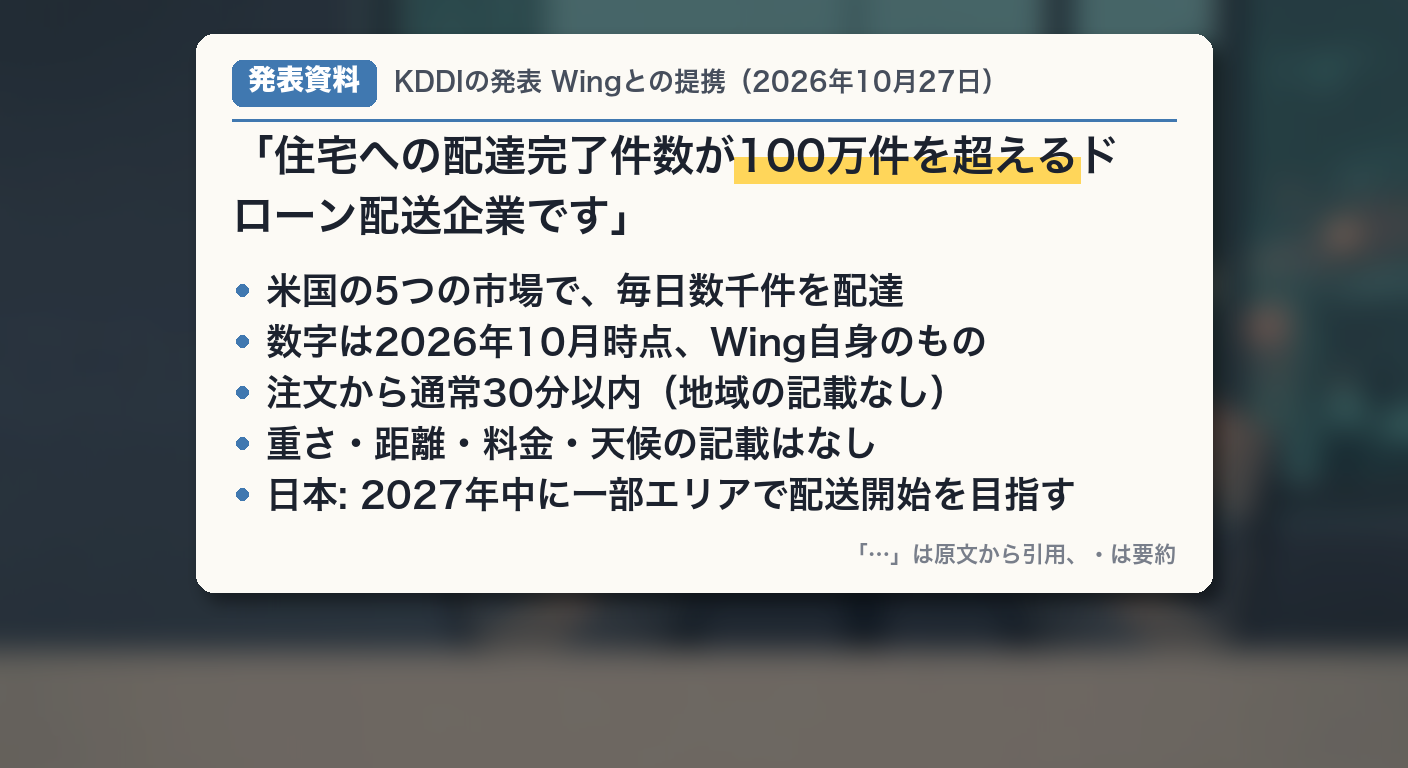
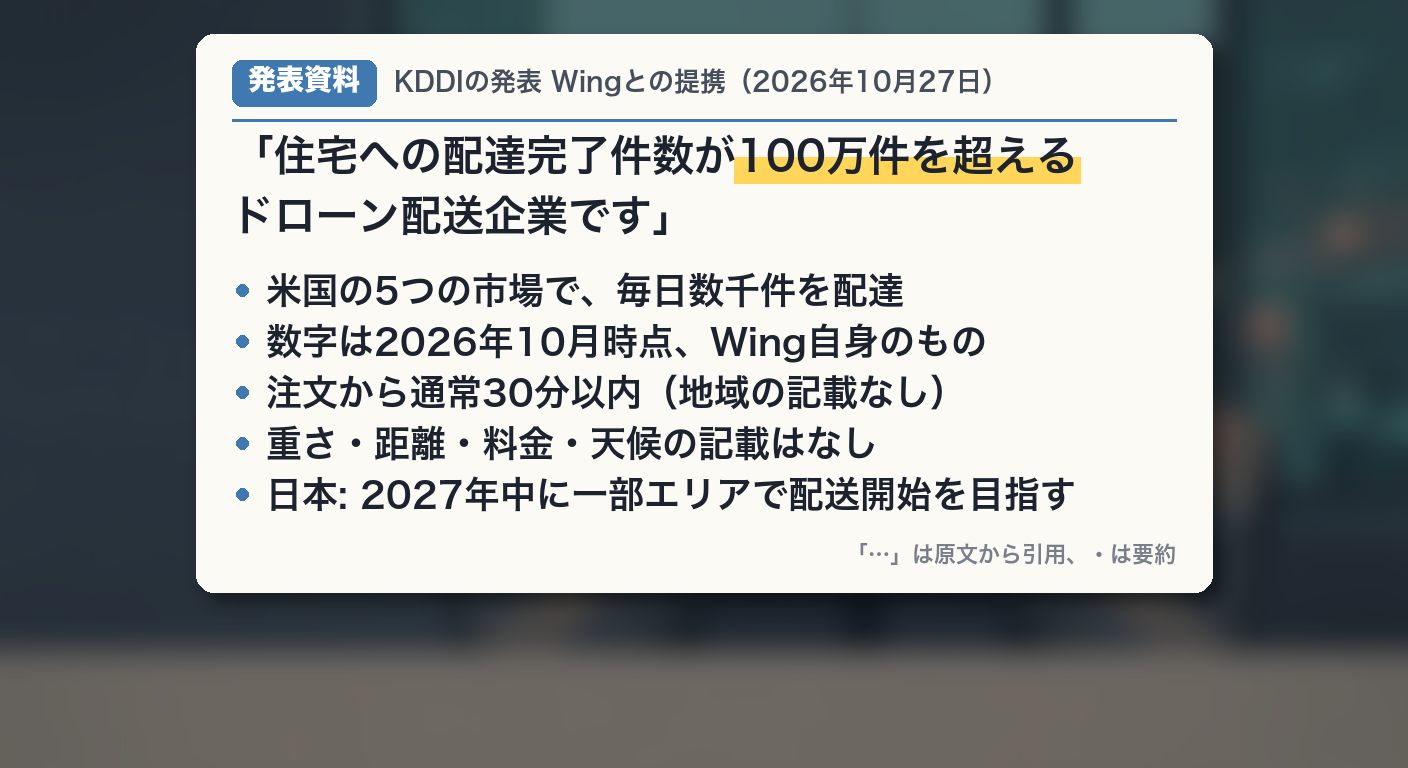
kl052: TTS・テロップ・BGM検証、管理担当の判定（サムネ見出し変更）、カード折り返し修正

Changed region(s): [[0.1562, 0.25, 0.5, 0.3125], [0.75, 0.1875, 0.7812, 0.2188]]

diff --git a/kl_dialogue.py b/kl_dialogue.py
@@ -1679,7 +1679,8 @@ def composite_thumbnail_dialogue(image_path: Path, ep: dict, cast: dict = None) 
     band_h = int(h * 0.45)
     grad = Image.new("L", (1, band_h))
     for y in range(band_h):
-        grad.putpixel((0, y), int(220 * (1 - y / band_h) ** 1.1))
+        # 濃さは回ごとに thumbnail_band_alpha で変えられる（既定220。kl052: 明るい背景が暗く沈むため140）
+        grad.putpixel((0, y), int(int(ep.get("thumbnail_band_alpha", 220)) * (1 - y / band_h) ** 1.1))
     band = Image.new("RGBA", (w, band_h), (10, 20, 35, 0))
     band.putalpha(grad.resize((w, band_h)))
     img.alpha_composite(band, (0, 0))
@@ -1763,6 +1764,9 @@ def _wrap_chars(text: str, font, max_w: int) -> list:
     alnum = lambda c: c.isascii() and (c.isalnum() or c in ".-%")
     # 形態素解析が英単語の途中に切れ目を付けることがある（"cod|e"）。英数字どうしの間は切れ目にしない
     good = {b for b in good if not (alnum(text[b - 1]) and alnum(text[b]))}
+    # カタカナ語の途中も切れ目にしない（janome が「ド|ローン」と切ることがある。kl052）
+    kata = lambda c: "ァ" <= c <= "ヺ" or c == "ー"
+    good = {b for b in good if not (kata(text[b - 1]) and kata(text[b]))}
     rows, i = [], 0
     while i < n:
         j = i + 1

diff --git a/script_prep/kl052.md b/script_prep/kl052.md
@@ -391,6 +391,8 @@
 理由: ホーム流入が主で、初見評価5点（絵が浮かぶ・商売の目線）。約束は S6・S7・S13 で答えている。「Wing」は会社かドローンか分からないという全案共通の指摘を、タイトルでは「グーグル系」に置換して解消。「Wing」は概要欄1行目付近とタグに残す。
 ガードレール: 「見出しを叩く動画」に見せない。サムネに「近所の郵便局が」「2万4000局」を足さない。概要欄1行目は「『ドローン基地』は報道の見出しの言葉で、発表での呼び名は『ドローンポート（発着場）』。発表日（10月27日）と判定の時点（11月5日）」の形を勧める。
 
+追記（STEP 11 の判定、2026-11-05、管理担当ケビン）: サムネ見出しを「郵便局が／ドローン基地に？」→「ローソンの品が／ドローンで家に？」に変更。理由: サムネの判定の札（大輔「もうすぐ来る」）は「ローソンの品などが家に届くのはいつか」への札で、郵便局の見出しの横に置くと「郵便局がドローン基地になるのはもうすぐ」と読める。本編では郵便局は珠洲の1か所で、見守り・災害時の試し（荷物なし）、配送の時期は未定と大輔自身が予想を引っ込めている。タイトル（郵便局・ドローン基地は報道の見出しとして問い、配送はいつ）は変えない。上部の暗幕を 220→140（`thumbnail_band_alpha`）。
+
 ## 初見レビュー r12 の直し（2026-11-05）
 
 | # | 場所 | 直す前 → 直した後 | 理由・根拠 |
